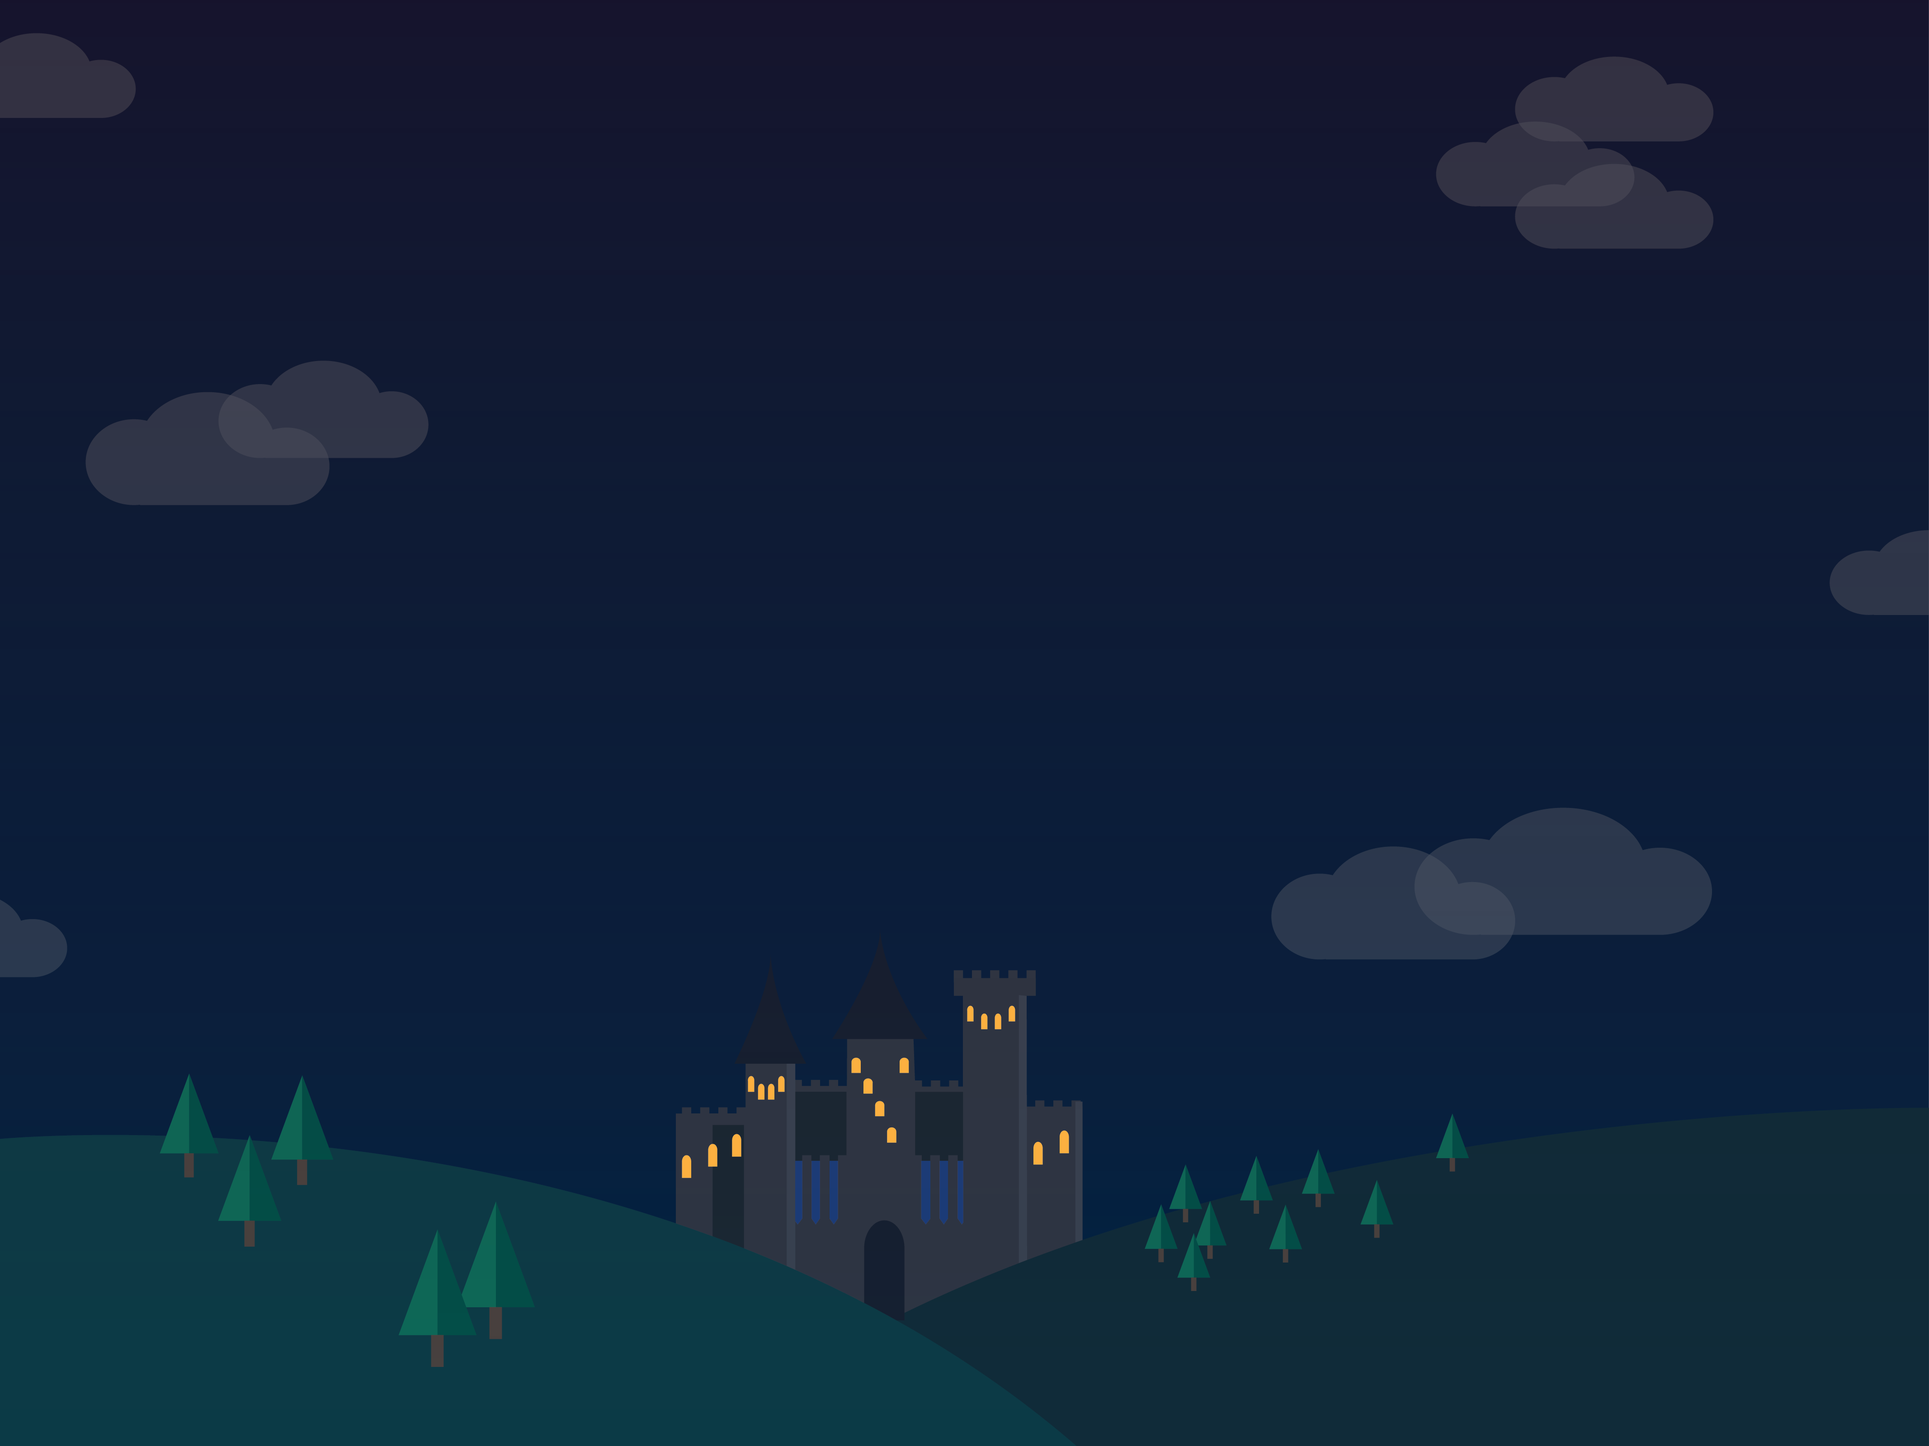
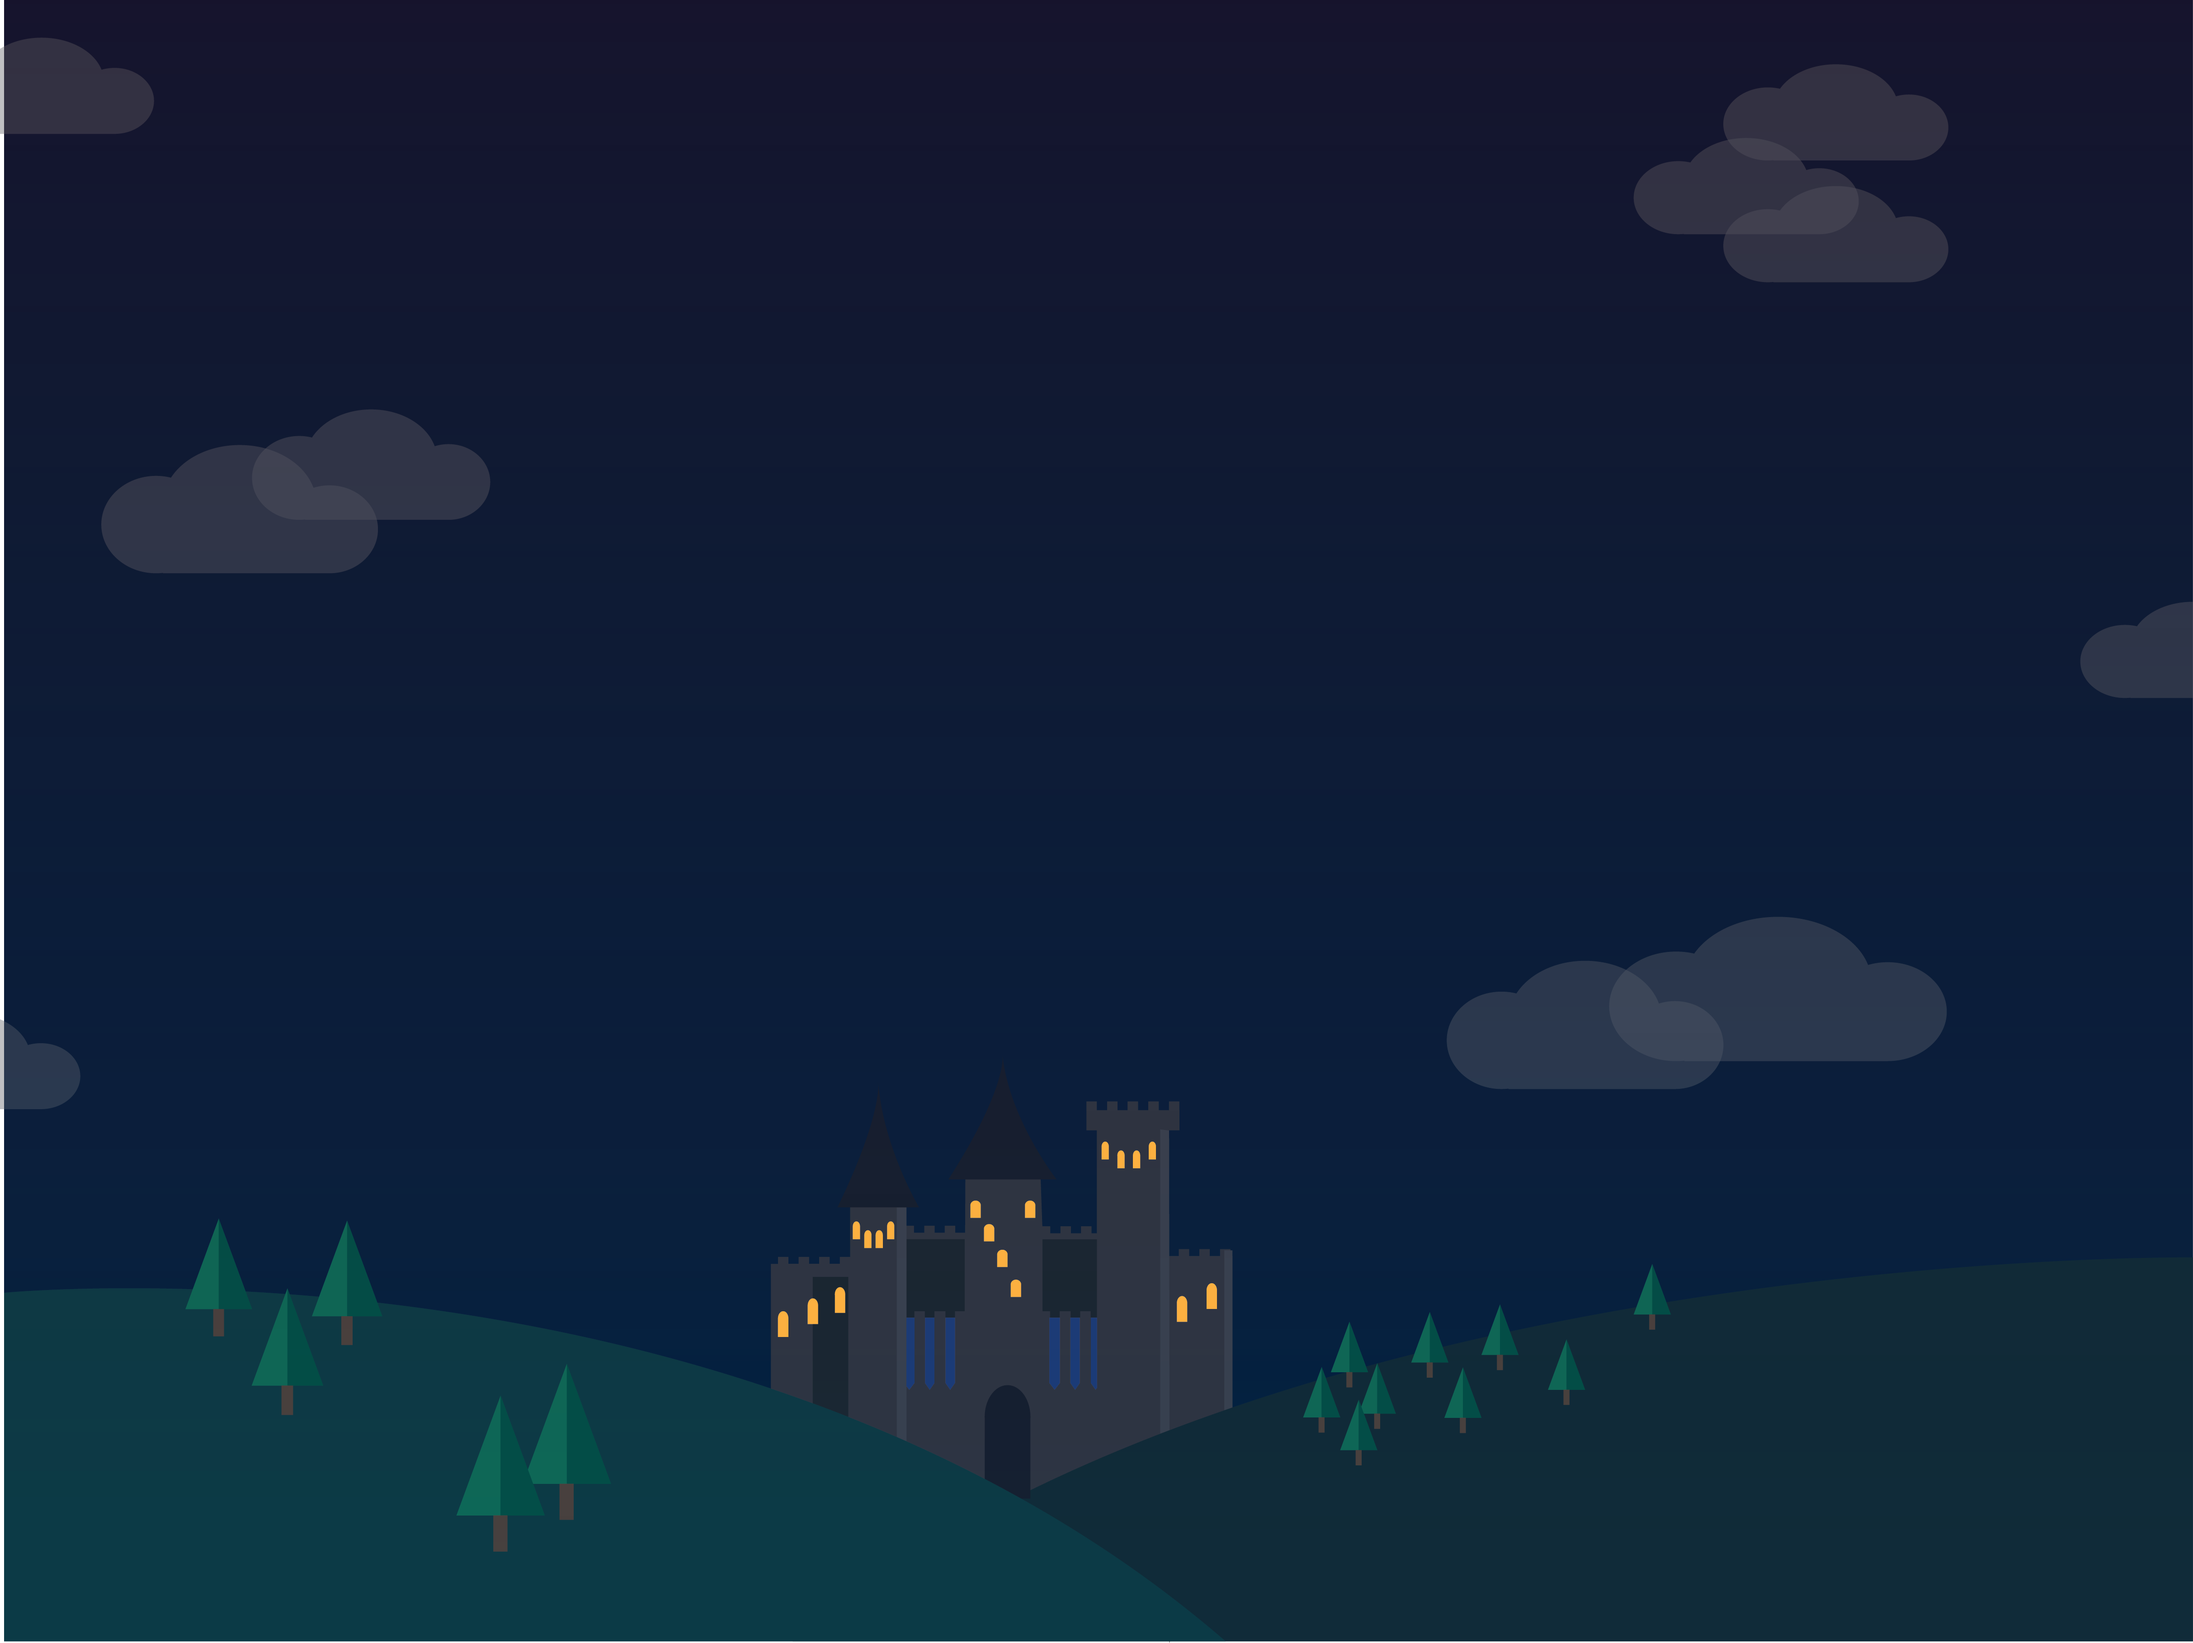
font updates and initial background work

diff --git a/app/views/less/application.less b/app/views/less/application.less
@@ -10,10 +10,16 @@
 // Padding & Margins
 @padding: 10px;
 
+// Linking
+@base-url: "/assets";
+
+
 body {
-  background-color: @grey-dk;
+  //background-color: @grey-dk;
+  background-image: url("@{base-url}/background_00-01.png");
+  background-size: cover;
   color: @grey-lt;
-  font-family: Arial;
+  font-family: Open Sans, serif;
   margin: 0;
 }
 
